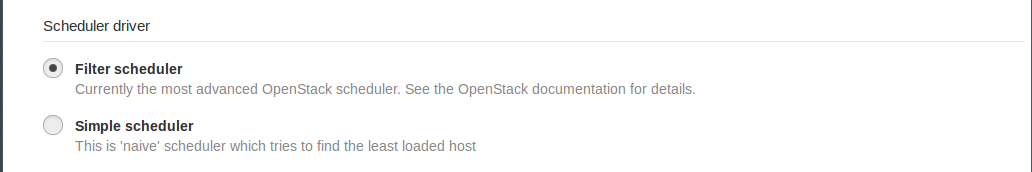
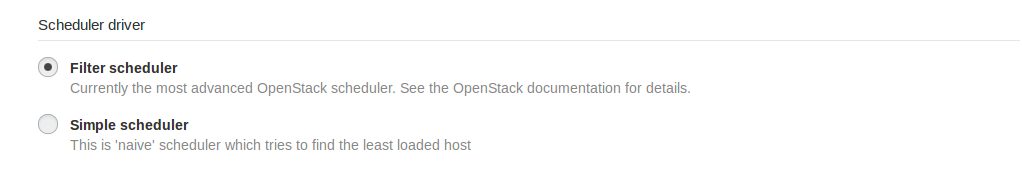
Edit screenshots in User Guide
Some screenshots are poorly cropped/have bad quality/don't reflect
the actual state of the art.
This commit fixes this problem.

diff --git a/pages/user-guide/config-environment/3400-verify-networks.rst b/pages/user-guide/config-environment/3400-verify-networks.rst
@@ -21,8 +21,11 @@ If there are errors, it is either in your configuration of interfaces
 or possibly the VLAN tagging feature is disabled on your switch port.
 
 .. image:: /_images/net_verify_failure.jpg
-   :width: 90%
+   :width: 80%
 
 Resolve any errors before attempting to deploy your environment.
+
+.. image:: /_images/user_screen_shots/net_verify_success.png
+   :width: 80%
 
 

diff --git a/pages/user-guide/create-environment/1050-change-password.rst b/pages/user-guide/create-environment/1050-change-password.rst
@@ -8,7 +8,7 @@ click on "Change password" at the upper right of the screen.
 The following screen is displayed:
 
 .. image:: /_images/authx/change_pass_not_vis.png
-   :width: 60%
+   :width: 40%
 
 - Type in the old password and then the new password, confirm the new password;
   click on the eye icon on the right of each line

diff --git a/pages/user-guide/config-environment/settings/3600-mellanox-neutron.rst b/pages/user-guide/config-environment/settings/3600-mellanox-neutron.rst
@@ -48,7 +48,7 @@ iSER configuration:
        checked in the Mellanox Components section.
 
 .. image:: /_images/user_screen_shots/storage-iser.png
-   :width: 75%
+   :width: 80%
 
 **Note:**
 `HowTo Install Mirantis Fuel 5.1 OpenStack with Mellanox Adapters Support <http://community.mellanox.com/docs/DOC-1474/>`_ includes

diff --git a/pages/user-guide/config-environment/settings/3400-qcow.rst b/pages/user-guide/config-environment/settings/3400-qcow.rst
@@ -7,7 +7,7 @@ Choose image format
 Select image format for ephemeral storage.
 
 .. image:: /_images/user_screen_shots/qcow.png
-   :width: 110%
+   :width: 90%
 
 When this option is selected, :ref:`ephemeral volumes<ephemeral-storage-term>`
 will be created as a copy-on-write layer of the base image.

diff --git a/pages/user-guide/config-environment/settings/3250-debug-set.rst b/pages/user-guide/config-environment/settings/3250-debug-set.rst
@@ -8,7 +8,7 @@ Use this field to set DEBUG level logging
 for all services in the environment:
 
 .. image:: /_images/user_screen_shots/debug-logging.png
-   :width: 80%
+   :width: 50%
 
 Debug logging consumes massive amounts of disk space
 as well as memory and CPU resources

diff --git a/pages/user-guide/config-environment/settings/3550-syslog.rst b/pages/user-guide/config-environment/settings/3550-syslog.rst
@@ -15,7 +15,7 @@ If you prefer to use an external server for rsyslog,
 specify the IP address and port number in this field:
 
 .. image:: /_images/user_screen_shots/syslog.png
-   :width: 80%
+   :width: 50%
 
 See :ref:`logs-top-tshoot` for more details.
 

diff --git a/pages/user-guide/config-environment/settings/3525-kernel-parameters.rst b/pages/user-guide/config-environment/settings/3525-kernel-parameters.rst
@@ -9,7 +9,7 @@ to set kernel parameters for all target nodes
 that Fuel will deploy:
 
 .. image:: /_images/user_screen_shots/kernel-parameters.png
-   :width: 70%
+   :width: 60%
 
 Note that this does not set kernel parameters
 for the Fuel Master node

diff --git a/pages/user-guide/config-environment/settings/2590-public-key.rst b/pages/user-guide/config-environment/settings/2590-public-key.rst
@@ -13,7 +13,7 @@ to this environment after the initial deployment.
 
 
 .. image:: /_images/user_screen_shots/public-key.png
-   :width: 80%
+   :width: 60%
 
 Note that the Public Key defined here
 is used only for the target nodes in this environment;

diff --git a/pages/user-guide/config-environment/settings/3500-vlan-splinters.rst b/pages/user-guide/config-environment/settings/3500-vlan-splinters.rst
@@ -25,7 +25,7 @@ and so are not affected by these issues.
 
 
 .. image:: /_images/user_screen_shots/settings-vlan-splinters.png
-   :width: 50%
+   :width: 90%
 
 You can select either the soft trunks or hard trunks mode:
 

diff --git a/pages/user-guide/config-environment/settings/8000-zabbix-access.rst b/pages/user-guide/config-environment/settings/8000-zabbix-access.rst
@@ -7,5 +7,5 @@ Resetting the Zabbix password
 You can reset the Zabbix password on this screen:
 
 .. image:: /_images/user_screen_shots/zabbix-access.png
-   :width: 80%
+   :width: 60%
 
